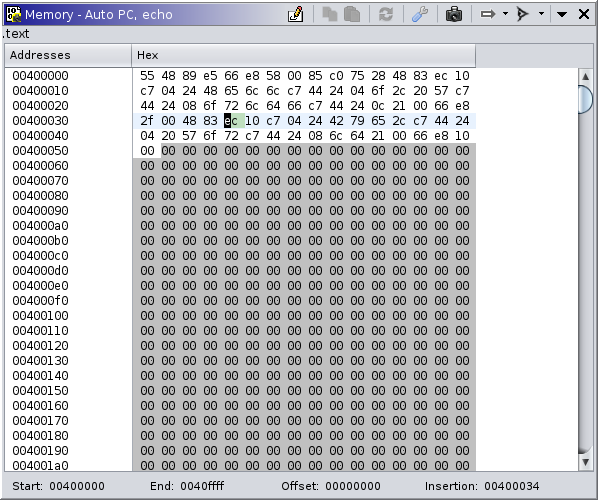
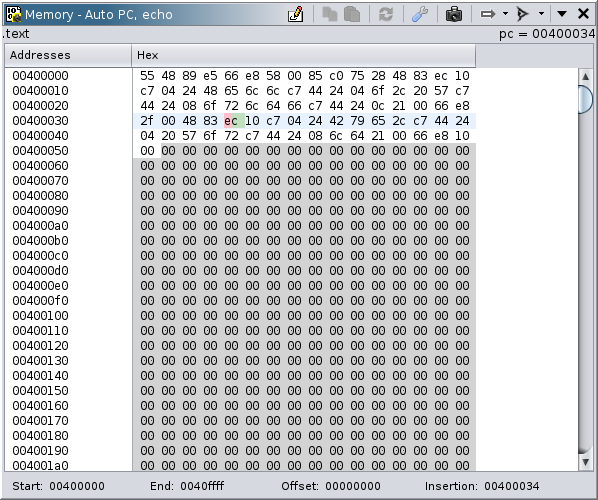
GP-2750: Add tracking address label with goto failure indication

Changed region(s): [[0.0, 0.0, 0.301, 0.06], [0.8428, 0.06, 0.9933, 0.09], [0.3612, 0.21, 0.3913, 0.27]]

diff --git a/Ghidra/Debug/Debugger/src/main/help/help/topics/DebuggerListingPlugin/DebuggerListingPlugin.html b/Ghidra/Debug/Debugger/src/main/help/help/topics/DebuggerListingPlugin/DebuggerListingPlugin.html
@@ -94,10 +94,12 @@
 
     <P>This action is always available on all dynamic listings. It configures automatic navigation
     for the dynamic listing. When location tracking is enabled, the listing is automatically
-    navigated to an address computed from the trace's or target's machine state. The address (and
-    its corresponding static address) are also highlighted in green. The computed address is
-    affected by the tool's current "coordinates," that is the selected thread, frame, and point in
-    time. The options are pluggable, but currently consist of:</P>
+    navigated to an address computed from the trace's or target's machine state. The address is
+    displayed in the top right of the viewer. That address and its corresponding static address are
+    also highlighted in green in the listing. If the address cannot be located in the listing, the
+    address is displayed in red. The computed address is affected by the tool's current
+    "coordinates," that is the selected thread, frame, and point in time. The options are
+    pluggable, but currently consist of:</P>
 
     <UL>
       <LI>Do Not Track - disables automatic navigation.</LI>

diff --git a/Ghidra/Debug/Debugger/src/main/help/help/topics/DebuggerMemoryBytesPlugin/DebuggerMemoryBytesPlugin.html b/Ghidra/Debug/Debugger/src/main/help/help/topics/DebuggerMemoryBytesPlugin/DebuggerMemoryBytesPlugin.html
@@ -44,7 +44,7 @@
     failed, the first address in the failed range is displayed with a pink background. Otherwise,
     up-to-date contents are displayed with the default background color.</P>
 
-    <P>The dynamic listing supports editing memory. See<A href=
+    <P>The dynamic bytes viewer supports editing memory. See <A href=
     "help/topics/DebuggerControlPlugin/DebuggerControlPlugin.html">Control and Machine State</A>.
     Such edits are performed as usual: Toggling edits and typing into the editor, or by pasting
     byte strings. These edits may be directed toward a live target, the trace, or the emulator.

diff --git a/Ghidra/Debug/Debugger/src/main/help/help/topics/DebuggerObjectsPlugin/DebuggerObjectsPlugin.html b/Ghidra/Debug/Debugger/src/main/help/help/topics/DebuggerObjectsPlugin/DebuggerObjectsPlugin.html
@@ -349,7 +349,8 @@
 
     <H3><A name="set_node_timout">Set Node Timeout</A></H3>
 
-    <P>Set the default value for the timeout used when expanding a node, i.e. populating its children.</P>
+    <P>Set the default value for the timeout used when expanding a node, i.e. populating its
+    children.</P>
 
     <H2><A name="color"></A>Color Options</H2>
 

diff --git a/Ghidra/Debug/Debugger/src/main/java/ghidra/app/plugin/core/debug/gui/memory/DebuggerMemoryBytesProvider.java b/Ghidra/Debug/Debugger/src/main/java/ghidra/app/plugin/core/debug/gui/memory/DebuggerMemoryBytesProvider.java
@@ -16,9 +16,14 @@
 package ghidra.app.plugin.core.debug.gui.memory;
 
 import java.awt.BorderLayout;
+import java.awt.event.MouseAdapter;
+import java.awt.event.MouseEvent;
 import java.lang.invoke.MethodHandles;
 import java.math.BigInteger;
 import java.util.*;
+
+import javax.swing.JLabel;
+import javax.swing.JPanel;
 
 import org.apache.commons.lang3.StringUtils;
 
@@ -26,6 +31,7 @@ import docking.action.DockingAction;
 import docking.action.ToggleDockingAction;
 import docking.menu.MultiStateDockingAction;
 import docking.widgets.fieldpanel.support.ViewerPosition;
+import generic.theme.GThemeDefaults.Colors;
 import ghidra.app.plugin.core.byteviewer.*;
 import ghidra.app.plugin.core.debug.DebuggerCoordinates;
 import ghidra.app.plugin.core.debug.gui.DebuggerLocationLabel;
@@ -121,6 +127,8 @@ public class DebuggerMemoryBytesProvider extends ProgramByteViewerComponentProvi
 		@Override
 		protected void specChanged(LocationTrackingSpec spec) {
 			updateTitle();
+			trackingLabel.setText("");
+			trackingLabel.setForeground(Colors.FOREGROUND);
 		}
 	}
 
@@ -165,6 +173,7 @@ public class DebuggerMemoryBytesProvider extends ProgramByteViewerComponentProvi
 	protected ForMemoryBytesReadsMemoryTrait readsMemTrait;
 
 	protected final DebuggerLocationLabel locationLabel = new DebuggerLocationLabel();
+	protected final JLabel trackingLabel = new JLabel();
 
 	@AutoConfigStateField
 	protected boolean followsCurrentThread = true;
@@ -191,7 +200,11 @@ public class DebuggerMemoryBytesProvider extends ProgramByteViewerComponentProvi
 		autoServiceWiring = AutoService.wireServicesConsumed(plugin, this);
 		createActions();
 		addDisplayListener(readsMemTrait.getDisplayListener());
-		decorationComponent.add(locationLabel, BorderLayout.NORTH);
+
+		JPanel northPanel = new JPanel(new BorderLayout());
+		northPanel.add(locationLabel, BorderLayout.WEST);
+		northPanel.add(trackingLabel, BorderLayout.EAST);
+		decorationComponent.add(northPanel, BorderLayout.NORTH);
 
 		goToTrait.goToCoordinates(current);
 		trackingTrait.goToCoordinates(current);
@@ -199,6 +212,15 @@ public class DebuggerMemoryBytesProvider extends ProgramByteViewerComponentProvi
 		locationLabel.goToCoordinates(current);
 
 		setHelpLocation(DebuggerResources.HELP_PROVIDER_MEMORY_BYTES);
+
+		trackingLabel.addMouseListener(new MouseAdapter() {
+			@Override
+			public void mouseClicked(MouseEvent e) {
+				if (e.getClickCount() == 2 && e.getButton() == MouseEvent.BUTTON1) {
+					doGoToTracked();
+				}
+			}
+		});
 	}
 
 	@Override
@@ -347,9 +369,17 @@ public class DebuggerMemoryBytesProvider extends ProgramByteViewerComponentProvi
 
 	@Override
 	public boolean goTo(Program gotoProgram, ProgramLocation location) {
-		boolean result = super.goTo(gotoProgram, location);
-		locationLabel.goToAddress(location == null ? null : location.getAddress());
-		return result;
+		if (location == null) {
+			return false;
+		}
+		if (blockSet.getByteBlockInfo(location.getAddress()) == null) {
+			return false;
+		}
+		if (!super.goTo(gotoProgram, location)) {
+			return false;
+		}
+		locationLabel.goToAddress(location.getAddress());
+		return true;
 	}
 
 	protected void removeOldListeners() {
@@ -394,6 +424,10 @@ public class DebuggerMemoryBytesProvider extends ProgramByteViewerComponentProvi
 	public void coordinatesActivated(DebuggerCoordinates coordinates) {
 		DebuggerCoordinates adjusted = adjustCoordinates(coordinates);
 		goToCoordinates(adjusted);
+		if (adjusted.getTrace() == null) {
+			trackingLabel.setText("");
+			trackingLabel.setForeground(Colors.FOREGROUND);
+		}
 	}
 
 	public void traceClosed(Trace trace) {
@@ -434,6 +468,16 @@ public class DebuggerMemoryBytesProvider extends ProgramByteViewerComponentProvi
 		return readsMemTrait.getAutoSpec();
 	}
 
+	protected void goToAndUpdateTrackingLabel(TraceProgramView curView, ProgramLocation loc) {
+		trackingLabel.setText(trackingTrait.computeLabelText());
+		if (goTo(curView, loc)) {
+			trackingLabel.setForeground(Colors.FOREGROUND);
+		}
+		else {
+			trackingLabel.setForeground(Colors.ERROR);
+		}
+	}
+
 	protected void doGoToTracked() {
 		if (editModeAction.isSelected()) {
 			return;
@@ -444,7 +488,7 @@ public class DebuggerMemoryBytesProvider extends ProgramByteViewerComponentProvi
 		}
 		TraceProgramView curView = current.getView();
 		Swing.runIfSwingOrRunLater(() -> {
-			goTo(curView, loc);
+			goToAndUpdateTrackingLabel(curView, loc);
 		});
 	}
 

diff --git a/Ghidra/Debug/Debugger/src/main/java/ghidra/app/plugin/core/debug/gui/listing/DebuggerListingProvider.java b/Ghidra/Debug/Debugger/src/main/java/ghidra/app/plugin/core/debug/gui/listing/DebuggerListingProvider.java
@@ -17,12 +17,17 @@ package ghidra.app.plugin.core.debug.gui.listing;
 
 import static ghidra.app.plugin.core.debug.gui.DebuggerResources.ICON_REGISTER_MARKER;
 
+import java.awt.BorderLayout;
 import java.awt.Color;
+import java.awt.event.MouseAdapter;
+import java.awt.event.MouseEvent;
 import java.lang.invoke.MethodHandles;
 import java.util.*;
 import java.util.stream.Collectors;
 import java.util.stream.Stream;
 
+import javax.swing.JLabel;
+import javax.swing.JPanel;
 import javax.swing.event.ChangeEvent;
 import javax.swing.event.ChangeListener;
 
@@ -36,6 +41,7 @@ import docking.action.ToggleDockingAction;
 import docking.menu.MultiStateDockingAction;
 import docking.widgets.EventTrigger;
 import docking.widgets.fieldpanel.support.ViewerPosition;
+import generic.theme.GThemeDefaults.Colors;
 import ghidra.app.nav.ListingPanelContainer;
 import ghidra.app.plugin.core.codebrowser.CodeViewerProvider;
 import ghidra.app.plugin.core.codebrowser.MarkerServiceBackgroundColorModel;
@@ -193,6 +199,8 @@ public class DebuggerListingProvider extends CodeViewerProvider {
 		@Override
 		protected void specChanged(LocationTrackingSpec spec) {
 			updateTitle();
+			trackingLabel.setText("");
+			trackingLabel.setForeground(Colors.FOREGROUND);
 			trackingSpecChangeListeners.fire.locationTrackingSpecChanged(spec);
 		}
 
@@ -270,6 +278,7 @@ public class DebuggerListingProvider extends CodeViewerProvider {
 		new ListenerSet<>(LocationTrackingSpecChangeListener.class);
 
 	protected final DebuggerLocationLabel locationLabel = new DebuggerLocationLabel();
+	protected final JLabel trackingLabel = new JLabel();
 
 	protected final MultiBlendedListingBackgroundColorModel colorModel;
 	protected final MarkerSetChangeListener markerChangeListener = new MarkerSetChangeListener();
@@ -316,7 +325,10 @@ public class DebuggerListingProvider extends CodeViewerProvider {
 
 		addDisplayListener(readsMemTrait.getDisplayListener());
 
-		this.setNorthComponent(locationLabel);
+		JPanel northPanel = new JPanel(new BorderLayout());
+		northPanel.add(locationLabel, BorderLayout.WEST);
+		northPanel.add(trackingLabel, BorderLayout.EAST);
+		this.setNorthComponent(northPanel);
 		if (isConnected) {
 			setTitle(DebuggerResources.TITLE_PROVIDER_LISTING);
 		}
@@ -325,6 +337,15 @@ public class DebuggerListingProvider extends CodeViewerProvider {
 		}
 		updateTitle(); // Actually, the subtitle
 		setHelpLocation(DebuggerResources.HELP_PROVIDER_LISTING);
+
+		trackingLabel.addMouseListener(new MouseAdapter() {
+			@Override
+			public void mouseClicked(MouseEvent e) {
+				if (e.getClickCount() == 2 && e.getButton() == MouseEvent.BUTTON1) {
+					doGoToTracked();
+				}
+			}
+		});
 	}
 
 	@Override
@@ -1020,6 +1041,16 @@ public class DebuggerListingProvider extends CodeViewerProvider {
 		return trackedStatic;
 	}
 
+	protected void goToAndUpdateTrackingLabel(TraceProgramView curView, ProgramLocation loc) {
+		trackingLabel.setText(trackingTrait.computeLabelText());
+		if (goTo(curView, loc)) {
+			trackingLabel.setForeground(Colors.FOREGROUND);
+		}
+		else {
+			trackingLabel.setForeground(Colors.ERROR);
+		}
+	}
+
 	protected void doGoToTracked() {
 		ProgramLocation loc = trackingTrait.getTrackedLocation();
 		ProgramLocation trackedStatic = doMarkTrackedLocation();
@@ -1029,13 +1060,13 @@ public class DebuggerListingProvider extends CodeViewerProvider {
 		TraceProgramView curView = current.getView();
 		if (!syncTrait.isAutoSyncCursorWithStaticListing() || trackedStatic == null) {
 			Swing.runIfSwingOrRunLater(() -> {
-				goTo(curView, loc);
+				goToAndUpdateTrackingLabel(curView, loc);
 				doCheckCurrentModuleMissing();
 			});
 		}
 		else {
 			Swing.runIfSwingOrRunLater(() -> {
-				goTo(curView, loc);
+				goToAndUpdateTrackingLabel(curView, loc);
 				doCheckCurrentModuleMissing();
 				plugin.fireStaticLocationEvent(trackedStatic);
 			});
@@ -1080,6 +1111,10 @@ public class DebuggerListingProvider extends CodeViewerProvider {
 	public void coordinatesActivated(DebuggerCoordinates coordinates) {
 		DebuggerCoordinates adjusted = adjustCoordinates(coordinates);
 		goToCoordinates(adjusted);
+		if (adjusted.getTrace() == null) {
+			trackingLabel.setText("");
+			trackingLabel.setForeground(Colors.FOREGROUND);
+		}
 	}
 
 	public void traceClosed(Trace trace) {

diff --git a/Ghidra/Debug/Debugger/src/main/java/ghidra/app/plugin/core/debug/gui/action/DebuggerTrackLocationTrait.java b/Ghidra/Debug/Debugger/src/main/java/ghidra/app/plugin/core/debug/gui/action/DebuggerTrackLocationTrait.java
@@ -258,6 +258,13 @@ public class DebuggerTrackLocationTrait {
 		});
 	}
 
+	public String computeLabelText() {
+		if (spec == null || trackedLocation == null) {
+			return "";
+		}
+		return spec.getLocationLabel() + " = " + trackedLocation.getByteAddress();
+	}
+
 	protected void doTrack() {
 		computeTrackedLocation().thenAccept(loc -> {
 			trackedLocation = loc;

diff --git a/Ghidra/Features/ByteViewer/src/main/java/ghidra/app/plugin/core/byteviewer/ProgramByteBlockSet.java b/Ghidra/Features/ByteViewer/src/main/java/ghidra/app/plugin/core/byteviewer/ProgramByteBlockSet.java
@@ -220,7 +220,7 @@ public class ProgramByteBlockSet implements ByteBlockSet {
 	/**
 	 * Given an address, get the byte block info.
 	 */
-	protected ByteBlockInfo getByteBlockInfo(Address address) {
+	public ByteBlockInfo getByteBlockInfo(Address address) {
 
 		if (!program.getMemory().contains(address)) {
 			// this block set is out of date...eventually a new

diff --git a/Ghidra/Debug/Debugger/src/main/java/ghidra/app/plugin/core/debug/gui/action/PCByRegisterLocationTrackingSpec.java b/Ghidra/Debug/Debugger/src/main/java/ghidra/app/plugin/core/debug/gui/action/PCByRegisterLocationTrackingSpec.java
@@ -53,6 +53,11 @@ public enum PCByRegisterLocationTrackingSpec implements RegisterLocationTracking
 	}
 
 	@Override
+	public String getLocationLabel() {
+		return "pc";
+	}
+
+	@Override
 	public AddressSpace computeDefaultAddressSpace(DebuggerCoordinates coordinates) {
 		return coordinates.getPlatform().getLanguage().getDefaultSpace();
 	}

diff --git a/Ghidra/Debug/Debugger/src/main/java/ghidra/app/plugin/core/debug/gui/action/SPLocationTrackingSpec.java b/Ghidra/Debug/Debugger/src/main/java/ghidra/app/plugin/core/debug/gui/action/SPLocationTrackingSpec.java
@@ -44,6 +44,11 @@ public enum SPLocationTrackingSpec implements RegisterLocationTrackingSpec {
 	}
 
 	@Override
+	public String getLocationLabel() {
+		return "sp";
+	}
+
+	@Override
 	public Register computeRegister(DebuggerCoordinates coordinates) {
 		TracePlatform platform = coordinates.getPlatform();
 		if (platform == null) {

diff --git a/Ghidra/Debug/Debugger/src/main/java/ghidra/app/plugin/core/debug/gui/action/LocationTrackingSpec.java b/Ghidra/Debug/Debugger/src/main/java/ghidra/app/plugin/core/debug/gui/action/LocationTrackingSpec.java
@@ -122,6 +122,13 @@ public interface LocationTrackingSpec {
 	String computeTitle(DebuggerCoordinates coordinates);
 
 	/**
+	 * Get the name used in the location tracking label
+	 * 
+	 * @return the label
+	 */
+	String getLocationLabel();
+
+	/**
 	 * Get (or create) the actual location tracking logic
 	 * 
 	 * <p>

diff --git a/Ghidra/Debug/Debugger/src/main/java/ghidra/app/plugin/core/debug/gui/action/WatchLocationTrackingSpec.java b/Ghidra/Debug/Debugger/src/main/java/ghidra/app/plugin/core/debug/gui/action/WatchLocationTrackingSpec.java
@@ -95,6 +95,11 @@ public class WatchLocationTrackingSpec implements LocationTrackingSpec {
 		return "&(" + expression + ")";
 	}
 
+	@Override
+	public String getLocationLabel() {
+		return "&watch";
+	}
+
 	/**
 	 * The tracking logic for a watch (Sleigh expression)
 	 */

diff --git a/Ghidra/Debug/Debugger/src/main/java/ghidra/app/plugin/core/debug/gui/action/NoneLocationTrackingSpec.java b/Ghidra/Debug/Debugger/src/main/java/ghidra/app/plugin/core/debug/gui/action/NoneLocationTrackingSpec.java
@@ -54,6 +54,11 @@ public enum NoneLocationTrackingSpec implements LocationTrackingSpec, LocationTr
 	}
 
 	@Override
+	public String getLocationLabel() {
+		return null;
+	}
+
+	@Override
 	public LocationTracker getTracker() {
 		return this;
 	}
